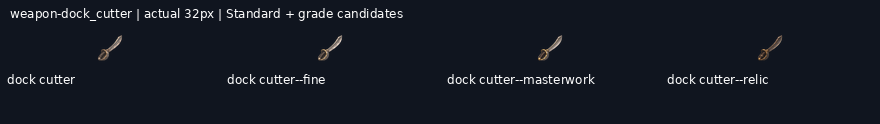
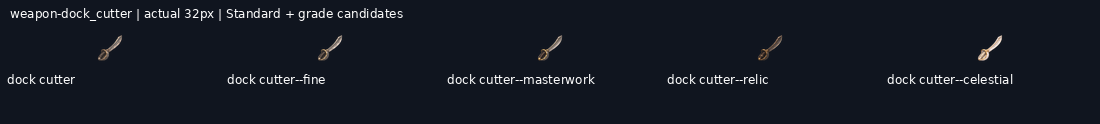
Deliver weapon-dock_cutter--celestial review candidate with native provenance and exports

diff --git a/art/_archive/gear/2026-11-21-retry-continuation/HANDOFF.md b/art/_archive/gear/2026-11-21-retry-continuation/HANDOFF.md
@@ -1,13 +1,13 @@
 # Reset continuation progress
 
-Branch: `art/2026-11-20-reset-continuation`. New deliveries: 13/26.
+Branch: `art/2026-11-20-reset-continuation`. New deliveries: 14/26.
 
 Shared coordination: https://github.com/leonpentastorm/Project-Heaven-Cry/issues/3 . Read START-HERE.md before extending this queue.
 
 All new entries remain review-candidate; production_approved:false and implementation_ready:false. Exact-outline review remains pending.
 
-Ready jobs: weapon-purifier_flamer--masterwork, weapon-kemizuchi_side_sword--masterwork, weapon-ork_cleaver_glaive--masterwork, weapon-broadback_sabre--relic, weapon-hellraiser_rotary--celestial, weapon-dock_cutter--celestial.
+Ready jobs: weapon-purifier_flamer--masterwork, weapon-kemizuchi_side_sword--masterwork, weapon-ork_cleaver_glaive--masterwork, weapon-broadback_sabre--relic, weapon-hellraiser_rotary--celestial.
 
-Pending jobs: weapon-purifier_flamer--masterwork, weapon-kemizuchi_side_sword--masterwork, weapon-ork_cleaver_glaive--masterwork, weapon-purifier_flamer--relic, weapon-broadback_sabre--relic, weapon-kemizuchi_side_sword--relic, weapon-ork_cleaver_glaive--relic, weapon-hellraiser_rotary--celestial, weapon-purifier_flamer--celestial, weapon-dock_cutter--celestial, weapon-broadback_sabre--celestial, weapon-kemizuchi_side_sword--celestial, weapon-ork_cleaver_glaive--celestial.
+Pending jobs: weapon-purifier_flamer--masterwork, weapon-kemizuchi_side_sword--masterwork, weapon-ork_cleaver_glaive--masterwork, weapon-purifier_flamer--relic, weapon-broadback_sabre--relic, weapon-kemizuchi_side_sword--relic, weapon-ork_cleaver_glaive--relic, weapon-hellraiser_rotary--celestial, weapon-purifier_flamer--celestial, weapon-broadback_sabre--celestial, weapon-kemizuchi_side_sword--celestial, weapon-ork_cleaver_glaive--celestial.
 
 Quota state: null.

diff --git a/art/briefs/prompts-2026-11-19/PRODUCTION-STATUS.md b/art/briefs/prompts-2026-11-19/PRODUCTION-STATUS.md
@@ -1,12 +1,12 @@
 # Current sole-artist production
 
-**525/871 (60.3%) selected review candidates.** Last delivery: `weapon-dock_cutter--relic`. Imports, exports, components, rejected attempts and archived alternatives add0. Artistic/implementation approvals remainfalse.
+**526/871 (60.4%) selected review candidates.** Last delivery: `weapon-dock_cutter--celestial`. Imports, exports, components, rejected attempts and archived alternatives add0. Artistic/implementation approvals remainfalse.
 
 | Requested work | Selected | Total |
 | --- | ---: | ---: |
 | icons_tiles | 87 | 88 |
 | new_repaint_standards | 53 | 104 |
-| grades | 371 | 656 |
+| grades | 372 | 656 |
 | uniques | 14 | 23 |
 
 Active run sole-20261121-0109, branch art/2026-11-20-reset-continuation. Shared live ledger: https://github.com/leonpentastorm/Project-Heaven-Cry/issues/3 . Current renewed grade lane: art/_archive/gear/2026-11-21-retry-continuation/START-HERE.md. All earlier512 candidate drawings were integrated before this lane; native bytes, cleaned imports, source metadata and all prior failures preserved.

diff --git a/art/_archive/gear/2026-11-20-reset-continuation/START-HERE.md b/art/_archive/gear/2026-11-20-reset-continuation/START-HERE.md
@@ -1,6 +1,6 @@
 # Current21November continuation
 
-525/871 selected. Active lane art/_archive/gear/2026-11-21-retry-continuation/START-HERE.md, run sole-20261121-0109. User explicitly authorized renewed fictional-art attempts; all priorart/errors preserved. Read liveissue3+allcomments and remote deliveries before everyrender. RunningScript completed with original marks unchanged. All approvalsfalse;0.30 holdsremain. See PRODUCTION-STATUS.md and REMAINING-WORK.json for the latest exact count.
+526/871 selected. Active lane art/_archive/gear/2026-11-21-retry-continuation/START-HERE.md, run sole-20261121-0109. User explicitly authorized renewed fictional-art attempts; all priorart/errors preserved. Read liveissue3+allcomments and remote deliveries before everyrender. RunningScript completed with original marks unchanged. All approvalsfalse;0.30 holdsremain. See PRODUCTION-STATUS.md and REMAINING-WORK.json for the latest exact count.
 
 # Historical20November handoff
 
